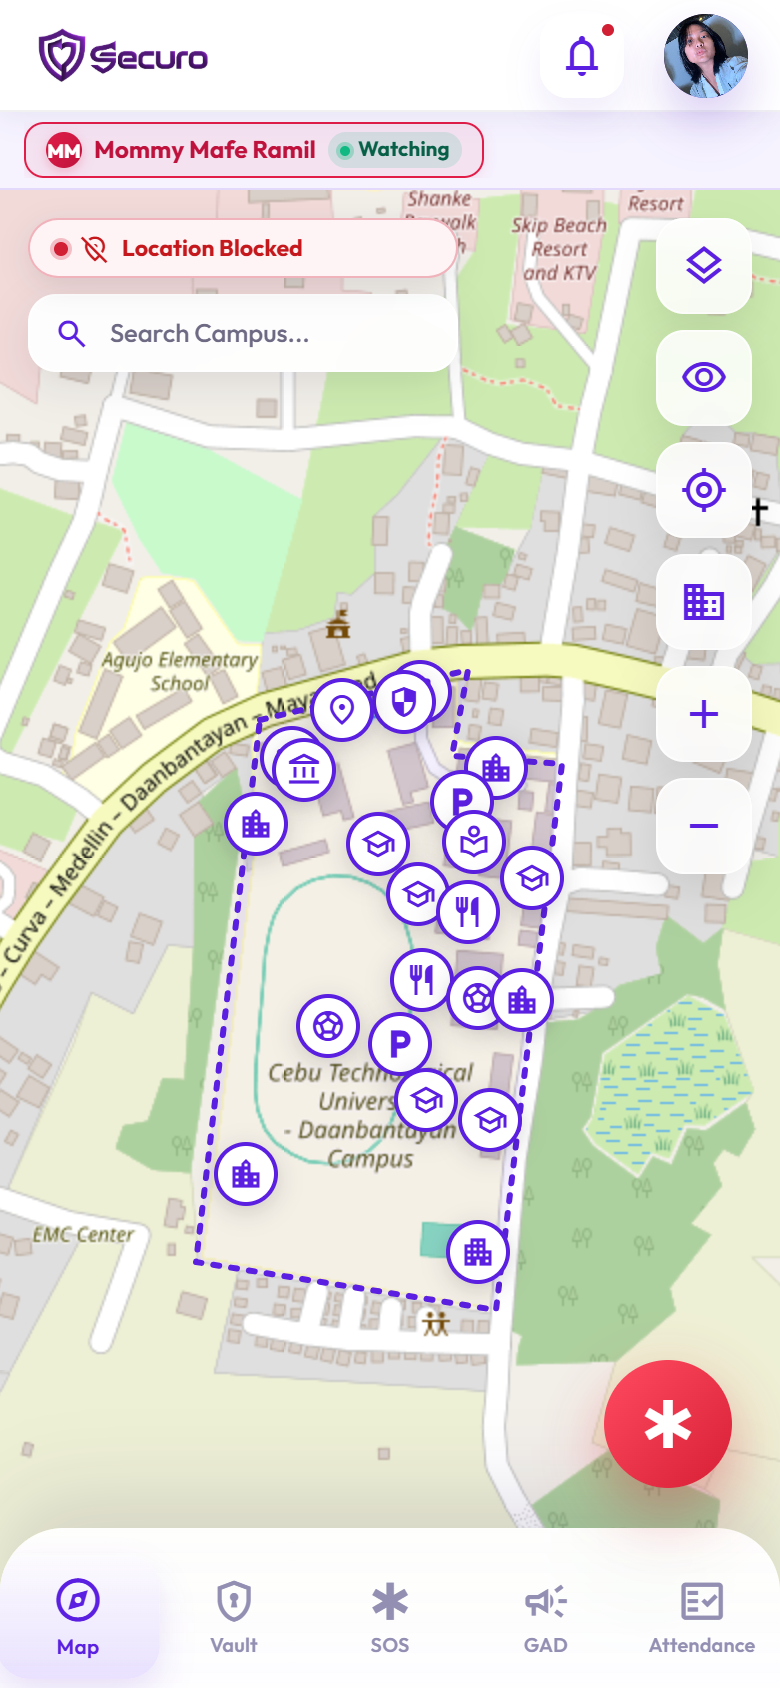
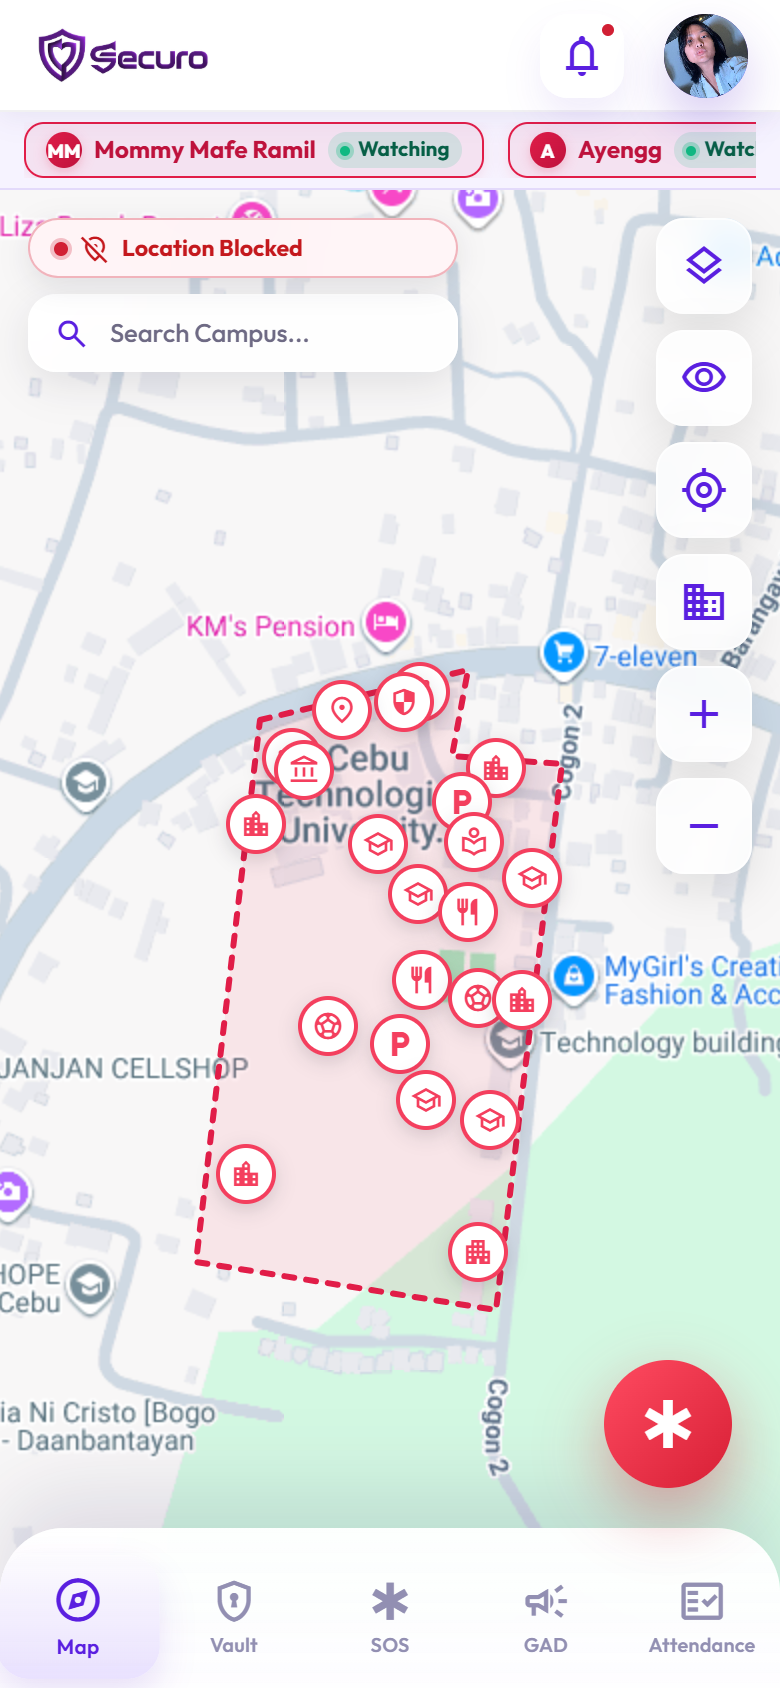
Update student view map colors to match simple red style

diff --git a/index.html b/index.html
@@ -1,4 +1,4 @@
-<!DOCTYPE html>
+<!DOCTYPE html>
 <html lang="en">
 
 <head>
@@ -6159,12 +6159,13 @@
             campusMarkersLayerGroup.clearLayers();
             buildingMarkerMap.clear();
 
+            // (2026-07-13) Red map markers & dashed geofence for student; was purple
             currentStudentBuildings.forEach(b => {
                 const bIcon = L.divIcon({
                     className: 'campus-facility-icon-marker',
-                    html: `<div style="background:white; border-radius:50%; width:32px; height:32px; box-shadow:0 3px 12px rgba(24,20,40,0.18); border:2px solid #5a1fe0; display:flex; align-items:center; justify-content:center; cursor:pointer; transition:transform 0.2s cubic-bezier(0.34,1.56,0.64,1);"><span class="material-symbols-outlined" style="font-size:18px; color:#5a1fe0;">${b.icon || 'location_on'}</span></div>`,
-                    iconSize: [32, 32],
-                    iconAnchor: [16, 16]
+                    html: `<div style="background:white; border-radius:50%; width:30px; height:30px; box-shadow:0 3px 10px rgba(24,20,40,0.16); border:2px solid #f43f5e; display:flex; align-items:center; justify-content:center; cursor:pointer;"><span class="material-symbols-outlined" style="font-size:16px; color:#f43f5e;">${b.icon || 'location_on'}</span></div>`,
+                    iconSize: [30, 30],
+                    iconAnchor: [15, 15]
                 });
                 // (2026-07-13) Single clean popup on tap/hover; was duplicate tooltip + popup
                 const marker = L.marker(b.coords, { icon: bIcon }).addTo(campusMarkersLayerGroup);
@@ -6175,7 +6176,7 @@
                 marker.bindPopup(`
                     <div style="padding:4px 2px; min-width:160px;">
                         <strong style="display:flex; align-items:center; gap:6px; font-size:0.9rem; color:#181428;">
-                            <span class="material-symbols-outlined" style="font-size:18px; color:#5a1fe0;">${b.icon || 'location_on'}</span>
+                            <span class="material-symbols-outlined" style="font-size:18px; color:#f43f5e;">${b.icon || 'location_on'}</span>
                             ${b.name}
                         </strong>
                         <p style="margin:6px 0 0; font-size:0.78rem; color:#64748b; line-height:1.4;">${bDesc}</p>
@@ -6211,13 +6212,13 @@
                 if (campusGeofencePolygonLayer) {
                     map.removeLayer(campusGeofencePolygonLayer);
                 }
-                // (2026-07-13) Purple dotted line geofence for student; was red dashed
+                // (2026-07-13) Red dashed geofence for student; was purple dotted
                 campusGeofencePolygonLayer = L.polygon(currentStudentGeofence, {
-                    color: '#5a1fe0',
+                    color: '#e11d48',
                     weight: 3,
-                    dashArray: '3, 6',
-                    fillColor: '#7c3aed',
-                    fillOpacity: 0.08
+                    dashArray: '5, 6',
+                    fillColor: '#f43f5e',
+                    fillOpacity: 0.1
                 }).addTo(map);
             }
 
@@ -6538,59 +6539,29 @@
                 wheelPxPerZoomLevel: 140
             }).setView(CAMPUS_CENTER, 17);
 
-            // (2026-07-13) Restore original map tiles; was purple-map-tiles
+            // (2026-07-13) Set Google Streets as default student map; was OpenStreetMap
             const baseMapLayers = {
-                "Street View": L.tileLayer('https://{s}.tile.openstreetmap.org/{z}/{x}/{y}.png', {
-                    maxZoom: 19,
-                    attribution: '©OpenStreetMap contributors',
-                    crossOrigin: true
-                }),
-                "Satellite": L.tileLayer('https://server.arcgisonline.com/ArcGIS/rest/services/World_Imagery/MapServer/tile/{z}/{y}/{x}', {
-                    maxZoom: 19,
-                    attribution: 'Tiles ©Esri',
-                    crossOrigin: true
-                })
+                "Google Streets": L.tileLayer('https://mt1.google.com/vt/lyrs=m&x={x}&y={y}&z={z}', { maxZoom: 20 }),
+                "Google Hybrid": L.tileLayer('https://mt1.google.com/vt/lyrs=y&x={x}&y={y}&z={z}', { maxZoom: 20 }),
+                "Google Satellite": L.tileLayer('https://mt1.google.com/vt/lyrs=s&x={x}&y={y}&z={z}', { maxZoom: 20 }),
+                "Google Terrain": L.tileLayer('https://mt1.google.com/vt/lyrs=p&x={x}&y={y}&z={z}', { maxZoom: 20 }),
+                "OpenStreetMap": L.tileLayer('https://{s}.tile.openstreetmap.org/{z}/{x}/{y}.png', { maxZoom: 19 })
             };
 
-            let activeLayer = baseMapLayers["Street View"];
+            let activeLayer = baseMapLayers["Google Streets"];
             activeLayer.addTo(map);
 
             // Force tile load after layer is added
             setTimeout(() => { if (map) map.invalidateSize(); }, 100);
             setTimeout(() => { if (map) map.invalidateSize(); }, 500);
 
-            // After map is ready, try to upgrade to Google Streets silently
-            map.once('load', () => {
-                const googleStreets = L.tileLayer('https://mt1.google.com/vt/lyrs=m&x={x}&y={y}&z={z}', {
-                    maxZoom: 20,
-                    attribution: 'Map data ©Google'
-                });
-                let googleLoaded = false;
-                googleStreets.once('tileload', () => {
-                    if (!googleLoaded) {
-                        googleLoaded = true;
-                        map.removeLayer(activeLayer);
-                        googleStreets.addTo(map);
-                        baseMapLayers["Street View"] = googleStreets;
-                        activeLayer = googleStreets;
-                    }
-                });
-                // Add quietly to test — if no tiles load within 3s, it stays on OSM
-                googleStreets.addTo(map);
-                setTimeout(() => {
-                    if (!googleLoaded && map.hasLayer(googleStreets)) {
-                        map.removeLayer(googleStreets);
-                    }
-                }, 3000);
-            });
-
-            // (2026-07-13) Purple dotted line geofence for student; was red dashed
+            // (2026-07-13) Red dashed geofence for student; was purple dotted
             campusGeofencePolygonLayer = L.polygon(currentStudentGeofence, {
-                color: '#5a1fe0',
+                color: '#e11d48',
                 weight: 3,
-                dashArray: '3, 6',
-                fillColor: '#7c3aed',
-                fillOpacity: 0.08
+                dashArray: '5, 6',
+                fillColor: '#f43f5e',
+                fillOpacity: 0.1
             }).addTo(map);
 
             // Draw building markers with exact admin-saved positions

diff --git a/www/index.html b/www/index.html
@@ -1,4 +1,4 @@
-<!DOCTYPE html>
+<!DOCTYPE html>
 <html lang="en">
 
 <head>
@@ -6159,12 +6159,13 @@
             campusMarkersLayerGroup.clearLayers();
             buildingMarkerMap.clear();
 
+            // (2026-07-13) Red map markers & dashed geofence for student; was purple
             currentStudentBuildings.forEach(b => {
                 const bIcon = L.divIcon({
                     className: 'campus-facility-icon-marker',
-                    html: `<div style="background:white; border-radius:50%; width:32px; height:32px; box-shadow:0 3px 12px rgba(24,20,40,0.18); border:2px solid #5a1fe0; display:flex; align-items:center; justify-content:center; cursor:pointer; transition:transform 0.2s cubic-bezier(0.34,1.56,0.64,1);"><span class="material-symbols-outlined" style="font-size:18px; color:#5a1fe0;">${b.icon || 'location_on'}</span></div>`,
-                    iconSize: [32, 32],
-                    iconAnchor: [16, 16]
+                    html: `<div style="background:white; border-radius:50%; width:30px; height:30px; box-shadow:0 3px 10px rgba(24,20,40,0.16); border:2px solid #f43f5e; display:flex; align-items:center; justify-content:center; cursor:pointer;"><span class="material-symbols-outlined" style="font-size:16px; color:#f43f5e;">${b.icon || 'location_on'}</span></div>`,
+                    iconSize: [30, 30],
+                    iconAnchor: [15, 15]
                 });
                 // (2026-07-13) Single clean popup on tap/hover; was duplicate tooltip + popup
                 const marker = L.marker(b.coords, { icon: bIcon }).addTo(campusMarkersLayerGroup);
@@ -6175,7 +6176,7 @@
                 marker.bindPopup(`
                     <div style="padding:4px 2px; min-width:160px;">
                         <strong style="display:flex; align-items:center; gap:6px; font-size:0.9rem; color:#181428;">
-                            <span class="material-symbols-outlined" style="font-size:18px; color:#5a1fe0;">${b.icon || 'location_on'}</span>
+                            <span class="material-symbols-outlined" style="font-size:18px; color:#f43f5e;">${b.icon || 'location_on'}</span>
                             ${b.name}
                         </strong>
                         <p style="margin:6px 0 0; font-size:0.78rem; color:#64748b; line-height:1.4;">${bDesc}</p>
@@ -6211,13 +6212,13 @@
                 if (campusGeofencePolygonLayer) {
                     map.removeLayer(campusGeofencePolygonLayer);
                 }
-                // (2026-07-13) Purple dotted line geofence for student; was red dashed
+                // (2026-07-13) Red dashed geofence for student; was purple dotted
                 campusGeofencePolygonLayer = L.polygon(currentStudentGeofence, {
-                    color: '#5a1fe0',
+                    color: '#e11d48',
                     weight: 3,
-                    dashArray: '3, 6',
-                    fillColor: '#7c3aed',
-                    fillOpacity: 0.08
+                    dashArray: '5, 6',
+                    fillColor: '#f43f5e',
+                    fillOpacity: 0.1
                 }).addTo(map);
             }
 
@@ -6538,59 +6539,29 @@
                 wheelPxPerZoomLevel: 140
             }).setView(CAMPUS_CENTER, 17);
 
-            // (2026-07-13) Restore original map tiles; was purple-map-tiles
+            // (2026-07-13) Set Google Streets as default student map; was OpenStreetMap
             const baseMapLayers = {
-                "Street View": L.tileLayer('https://{s}.tile.openstreetmap.org/{z}/{x}/{y}.png', {
-                    maxZoom: 19,
-                    attribution: '©OpenStreetMap contributors',
-                    crossOrigin: true
-                }),
-                "Satellite": L.tileLayer('https://server.arcgisonline.com/ArcGIS/rest/services/World_Imagery/MapServer/tile/{z}/{y}/{x}', {
-                    maxZoom: 19,
-                    attribution: 'Tiles ©Esri',
-                    crossOrigin: true
-                })
+                "Google Streets": L.tileLayer('https://mt1.google.com/vt/lyrs=m&x={x}&y={y}&z={z}', { maxZoom: 20 }),
+                "Google Hybrid": L.tileLayer('https://mt1.google.com/vt/lyrs=y&x={x}&y={y}&z={z}', { maxZoom: 20 }),
+                "Google Satellite": L.tileLayer('https://mt1.google.com/vt/lyrs=s&x={x}&y={y}&z={z}', { maxZoom: 20 }),
+                "Google Terrain": L.tileLayer('https://mt1.google.com/vt/lyrs=p&x={x}&y={y}&z={z}', { maxZoom: 20 }),
+                "OpenStreetMap": L.tileLayer('https://{s}.tile.openstreetmap.org/{z}/{x}/{y}.png', { maxZoom: 19 })
             };
 
-            let activeLayer = baseMapLayers["Street View"];
+            let activeLayer = baseMapLayers["Google Streets"];
             activeLayer.addTo(map);
 
             // Force tile load after layer is added
             setTimeout(() => { if (map) map.invalidateSize(); }, 100);
             setTimeout(() => { if (map) map.invalidateSize(); }, 500);
 
-            // After map is ready, try to upgrade to Google Streets silently
-            map.once('load', () => {
-                const googleStreets = L.tileLayer('https://mt1.google.com/vt/lyrs=m&x={x}&y={y}&z={z}', {
-                    maxZoom: 20,
-                    attribution: 'Map data ©Google'
-                });
-                let googleLoaded = false;
-                googleStreets.once('tileload', () => {
-                    if (!googleLoaded) {
-                        googleLoaded = true;
-                        map.removeLayer(activeLayer);
-                        googleStreets.addTo(map);
-                        baseMapLayers["Street View"] = googleStreets;
-                        activeLayer = googleStreets;
-                    }
-                });
-                // Add quietly to test — if no tiles load within 3s, it stays on OSM
-                googleStreets.addTo(map);
-                setTimeout(() => {
-                    if (!googleLoaded && map.hasLayer(googleStreets)) {
-                        map.removeLayer(googleStreets);
-                    }
-                }, 3000);
-            });
-
-            // (2026-07-13) Purple dotted line geofence for student; was red dashed
+            // (2026-07-13) Red dashed geofence for student; was purple dotted
             campusGeofencePolygonLayer = L.polygon(currentStudentGeofence, {
-                color: '#5a1fe0',
+                color: '#e11d48',
                 weight: 3,
-                dashArray: '3, 6',
-                fillColor: '#7c3aed',
-                fillOpacity: 0.08
+                dashArray: '5, 6',
+                fillColor: '#f43f5e',
+                fillOpacity: 0.1
             }).addTo(map);
 
             // Draw building markers with exact admin-saved positions
